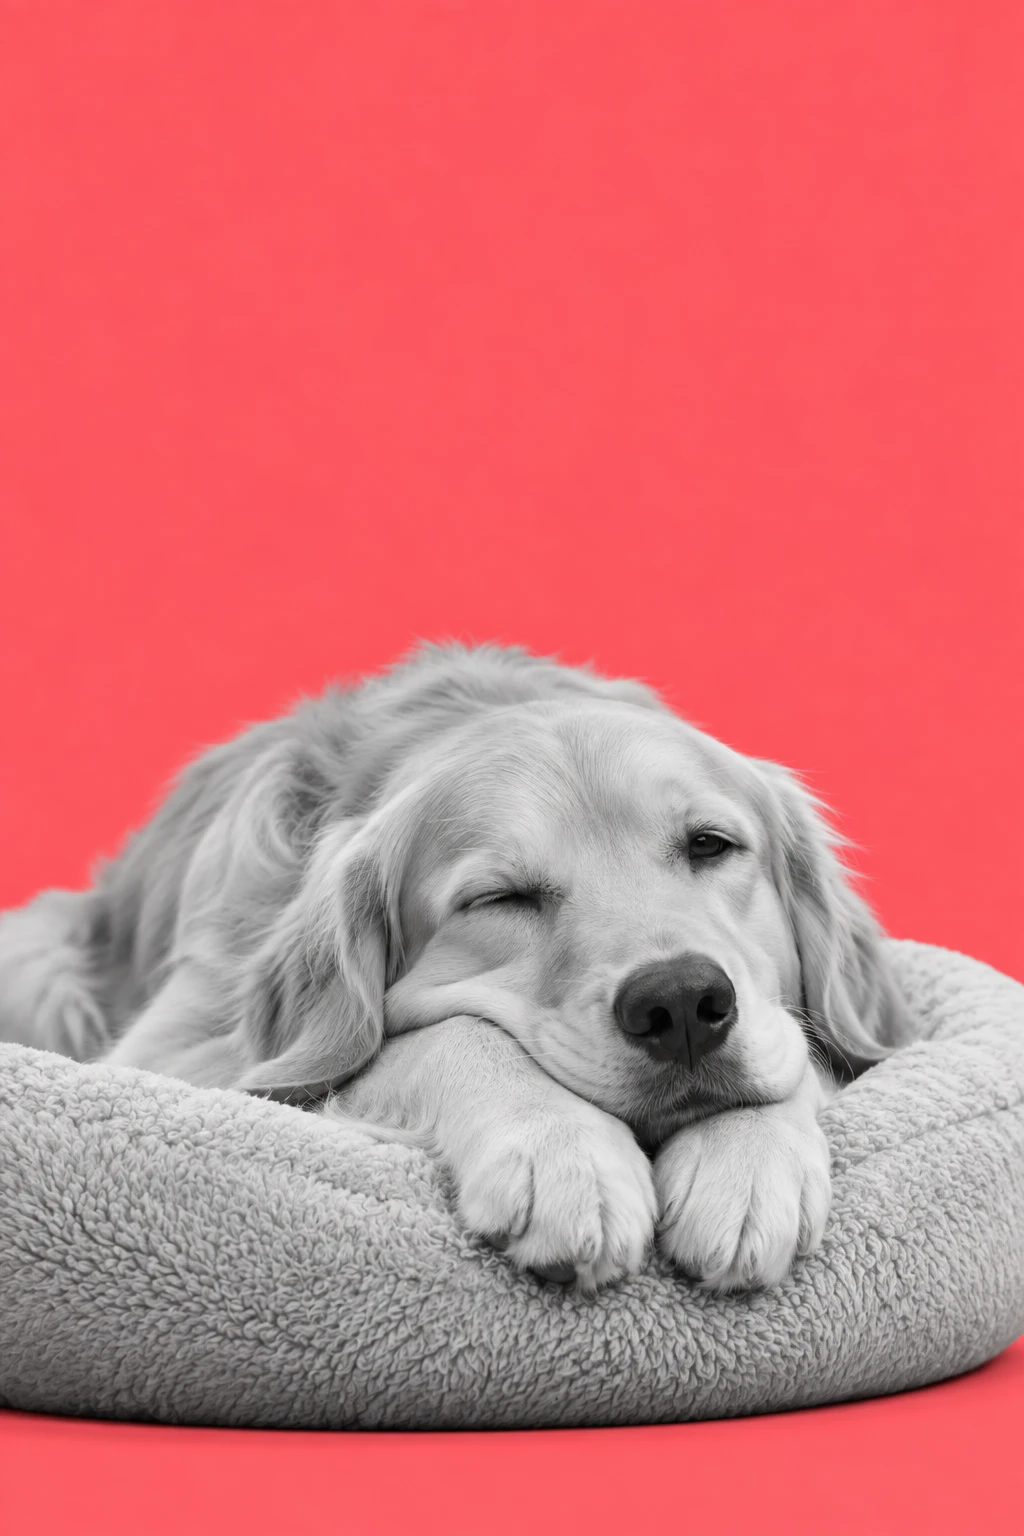
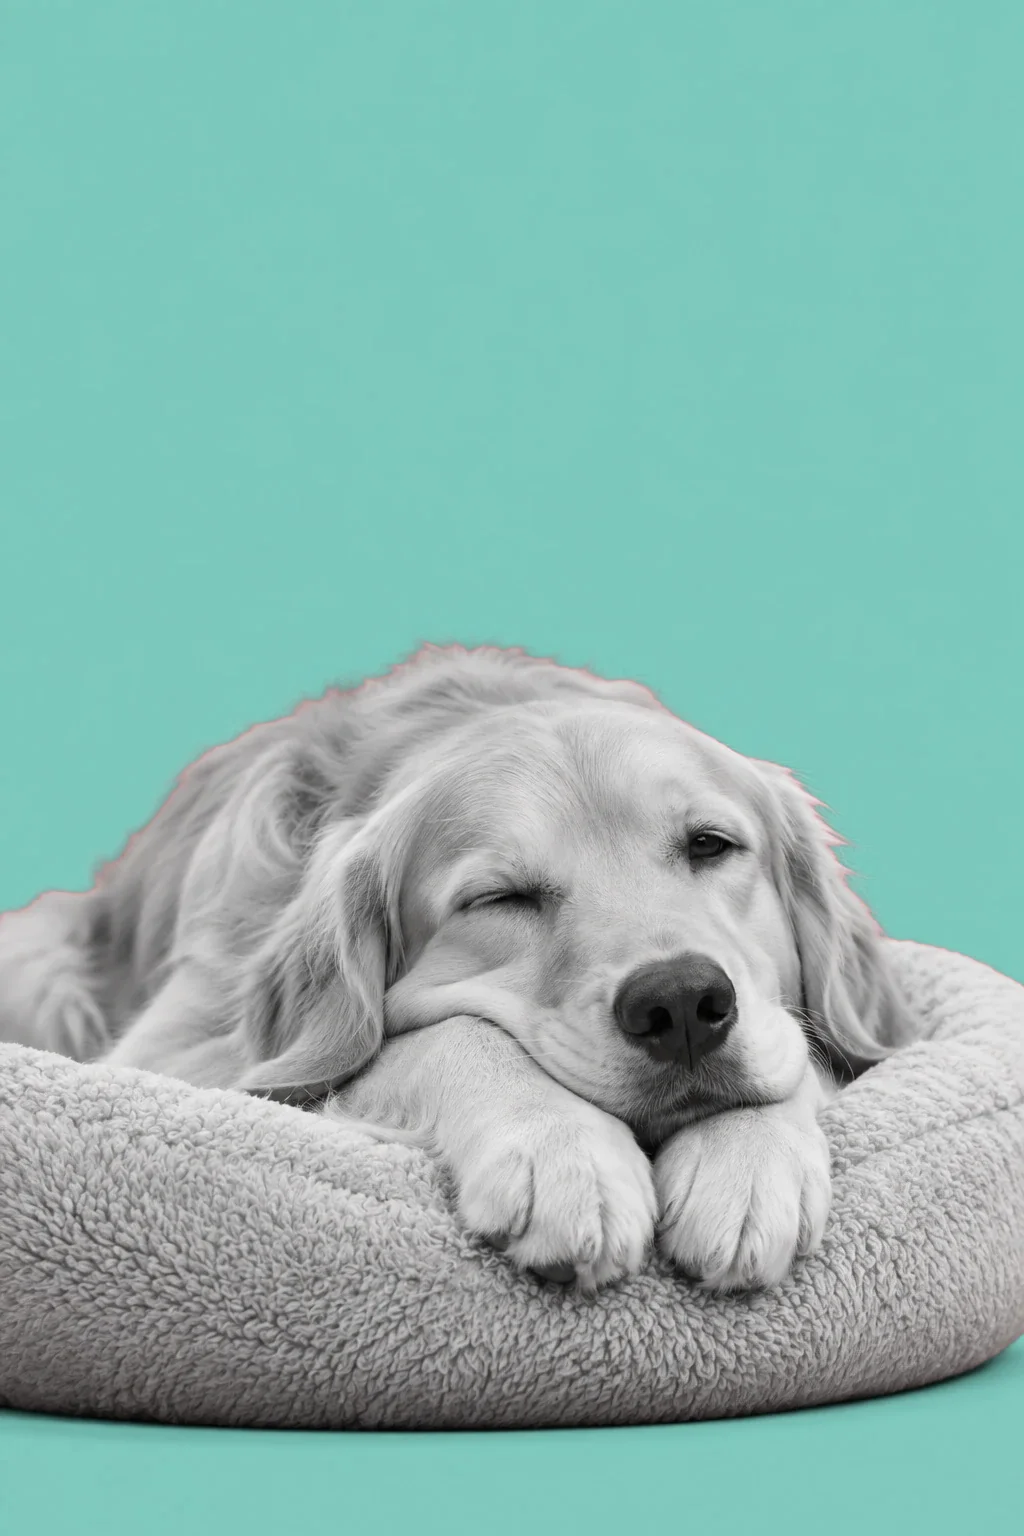
feat: recolore as fotos de estúdio para o teal do rowan
Fundos azuis viram primária (#0F766E) e os coral viram acento (#7CC7BC). Pets continuam em preto e branco; olho do gato e coleira do cão passam a teal. Script incluído em scripts/.

diff --git a/scripts/recolorir-fotos.py b/scripts/recolorir-fotos.py
@@ -1,0 +1,41 @@
+# Troca a cor dos fundos de estúdio gravados nas fotos (azul/coral do Bigode) pela paleta do rowan.
+# Uso: python scripts/recolorir-fotos.py entrada.webp '[["blue","#012590","#0F766E"]]' saida.webp
+import sys, numpy as np
+from PIL import Image
+
+def rgb2hsv(a):
+    r,g,b=a[...,0],a[...,1],a[...,2]
+    mx=a.max(-1); mn=a.min(-1); d=mx-mn
+    h=np.zeros_like(mx)
+    m=d>1e-6
+    rr=m&(mx==r); gg=m&(mx==g)&~rr; bb=m&~rr&~gg
+    h[rr]=((g-b)[rr]/d[rr])%6; h[gg]=(b-r)[gg]/d[gg]+2; h[bb]=(r-g)[bb]/d[bb]+4
+    h=h*60; s=np.where(mx>0,d/np.maximum(mx,1e-6),0)
+    return h,s,mx
+def hsv2rgb(h,s,v):
+    c=v*s; x=c*(1-np.abs((h/60)%2-1)); m=v-c
+    z=np.zeros_like(h); i=(h//60).astype(int)%6
+    r=np.select([i==0,i==1,i==2,i==3,i==4,i==5],[c,x,z,z,x,c])
+    g=np.select([i==0,i==1,i==2,i==3,i==4,i==5],[x,c,c,x,z,z])
+    b=np.select([i==0,i==1,i==2,i==3,i==4,i==5],[z,z,x,c,c,x])
+    return np.stack([r+m,g+m,b+m],-1)
+def hexhsv(hx):
+    a=np.array([[[int(hx[i:i+2],16)/255 for i in (1,3,5)]]]); h,s,v=rgb2hsv(a); return h[0,0],s[0,0],v[0,0]
+BANDS={'blue':(195,255),'coral':(330,380)}  # coral wraps 0
+def recolor(path, rules, out):
+    im=Image.open(path).convert('RGB'); a=np.asarray(im).astype(np.float64)/255
+    h,s,v=rgb2hsv(a); res=a.copy()
+    for band,src,dst in rules:
+        lo,hi=BANDS[band]; hh=np.where(h<lo-30,h+360,h) if hi>360 else h
+        center=(lo+hi)/2; half=(hi-lo)/2
+        hw=np.clip(1-(np.abs(hh-center)-half)/12,0,1)
+        sw=np.clip((s-0.12)/0.22,0,1)
+        w=(hw*sw)[...,None]
+        sh,ss,sv=hexhsv(src); th,ts,tv=hexhsv(dst)
+        ns=np.clip(s*ts/ss,0,1); nv=np.clip(v*tv/sv,0,1)
+        rec=hsv2rgb(np.full_like(h,th),ns,nv)
+        res=res*(1-w)+rec*w
+    Image.fromarray((np.clip(res,0,1)*255+0.5).astype(np.uint8)).save(out,'WEBP',quality=84,method=6)
+    o=Image.open(out).convert('RGB'); print(out, 'corner', '#%02x%02x%02x'%o.getpixel((8,8)))
+if __name__=='__main__':
+    import json; recolor(sys.argv[1], json.loads(sys.argv[2]), sys.argv[3])
